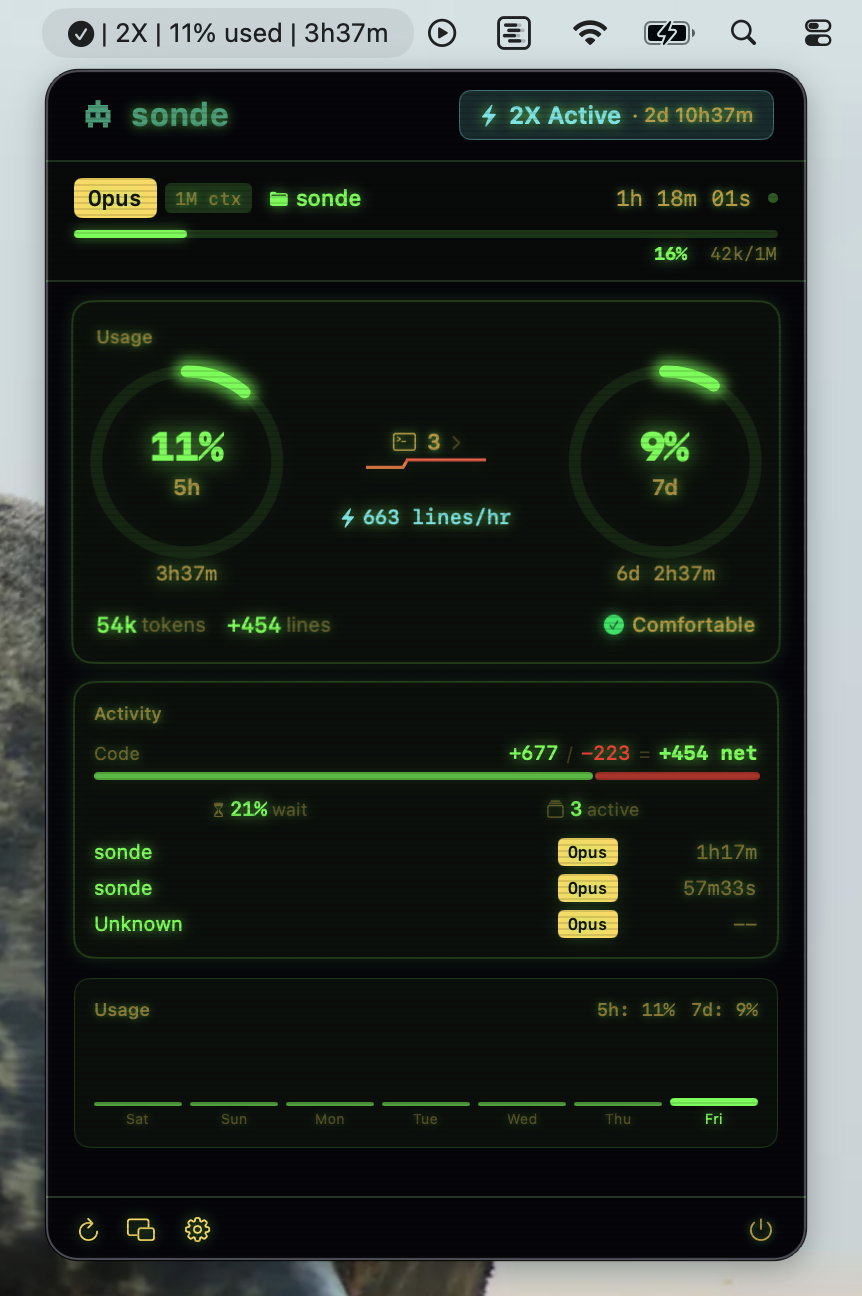
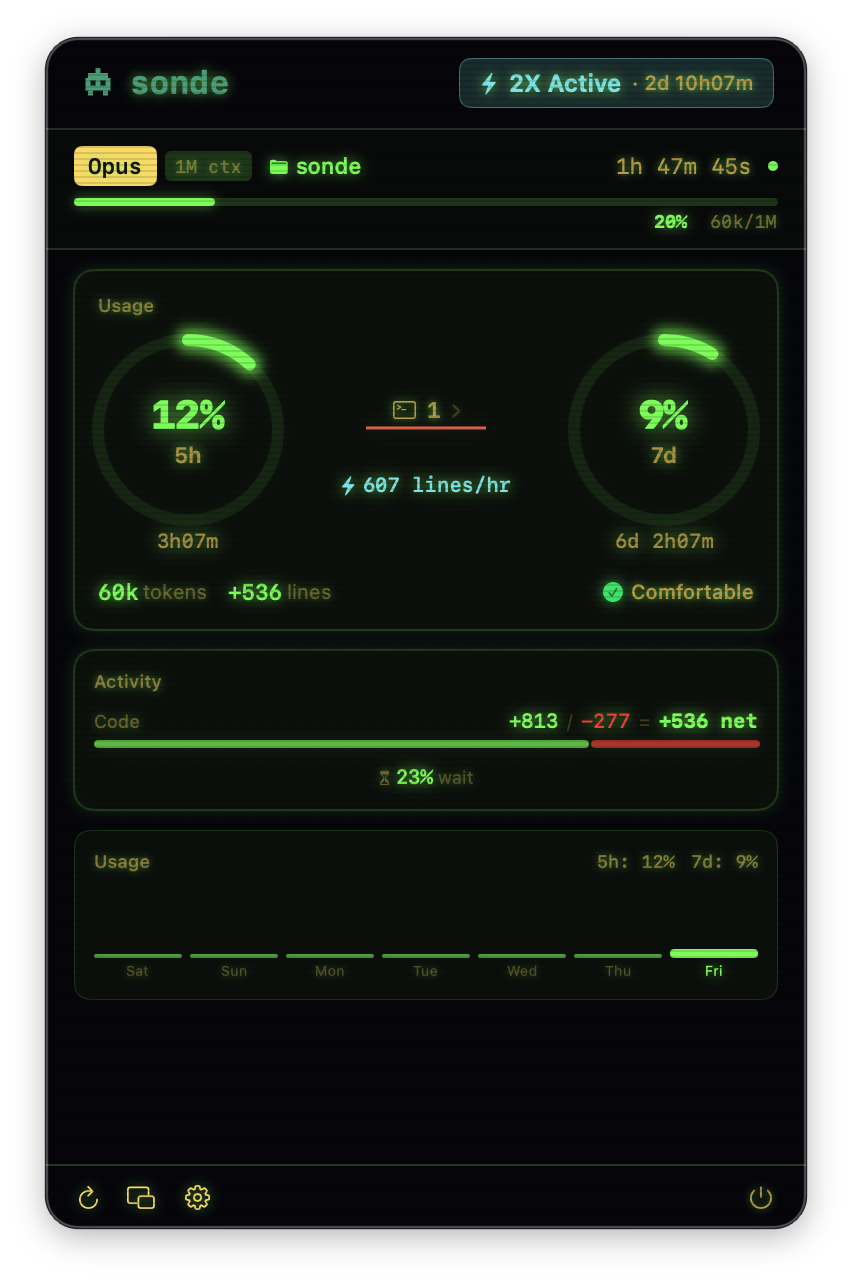
fix: Liquid Glass readability + updated screenshots + remove defaults clearing
- Liquid Glass: dark frosted cards (35% opacity), white text, visible borders
- Settings: Liquid Glass now treated as dark theme for proper contrast
- Remove defaults clearing on update — was breaking popover on every reinstall
- Auto-detect Nerd Font per terminal (Apple Terminal font check)
- Replace all 22 screenshots with consistent window captures

diff --git a/SondeApp/Sources/SondeApp/PopoverView.swift b/SondeApp/Sources/SondeApp/PopoverView.swift
@@ -64,7 +64,7 @@ enum PopoverTheme: String, CaseIterable {
 
     var cardBackground: Color {
         switch self {
-        case .liquidGlass: Color.primary.opacity(0.04)
+        case .liquidGlass: Color(white: 0.15).opacity(0.35)
         case .terminal: Color(red: 0.04, green: 0.06, blue: 0.04)
         case .cyberpunk: hex(0x141726)
         case .synthwave: hex(0x2D1B4E)
@@ -88,7 +88,7 @@ enum PopoverTheme: String, CaseIterable {
 
     var textPrimary: Color {
         switch self {
-        case .liquidGlass: .primary
+        case .liquidGlass: Color.white
         case .terminal: Self.phosphor
         case .cyberpunk: hex(0xE0E0E0)
         case .synthwave: hex(0xF0E6FF)
@@ -100,7 +100,7 @@ enum PopoverTheme: String, CaseIterable {
 
     var textSecondary: Color {
         switch self {
-        case .liquidGlass: .secondary
+        case .liquidGlass: Color(white: 0.7)
         case .terminal: Self.amberDim
         case .cyberpunk: hex(0x8FA4B8)
         case .synthwave: hex(0xC4A0E8)
@@ -130,7 +130,7 @@ enum PopoverTheme: String, CaseIterable {
 
     var borderColor: Color {
         switch self {
-        case .liquidGlass: Color.primary.opacity(0.06)
+        case .liquidGlass: Color.white.opacity(0.15)
         case .terminal: Self.phosphorDim.opacity(0.3)
         case .cyberpunk: hex(0x18E0FF).opacity(0.2)
         case .synthwave: hex(0xFF2975).opacity(0.2)
@@ -154,7 +154,7 @@ enum PopoverTheme: String, CaseIterable {
 
     var dividerColor: Color {
         switch self {
-        case .liquidGlass: Color.primary.opacity(0.1)
+        case .liquidGlass: Color.white.opacity(0.15)
         case .terminal: Self.phosphor.opacity(0.12)
         case .system: isDark ? Color.white.opacity(0.08) : hex(0xC6C6C8).opacity(0.6)
         case .sonde: isDark ? hex(0x45475A).opacity(0.3) : hex(0xBCC0CC).opacity(0.4)
@@ -164,7 +164,7 @@ enum PopoverTheme: String, CaseIterable {
 
     var footerText: Color {
         switch self {
-        case .liquidGlass: .secondary
+        case .liquidGlass: Color(white: 0.6)
         case .terminal: Self.phosphorFaint
         case .system: isDark ? hex(0x98989D) : hex(0x3C3C43).opacity(0.6)
         case .sonde: isDark ? hex(0x6C7086) : hex(0x8C8FA1)
@@ -302,7 +302,7 @@ private struct CardEdgeModifier: ViewModifier {
         case .system, .sonde:
             content.shadow(color: Color.black.opacity(0.15), radius: 8, y: 3)
         case .liquidGlass:
-            content.overlay(RoundedRectangle(cornerRadius: 10).stroke(Color.primary.opacity(0.08), lineWidth: 0.5))
+            content.overlay(RoundedRectangle(cornerRadius: 10).stroke(Color.white.opacity(0.2), lineWidth: 0.5))
         default:
             content
                 .overlay(RoundedRectangle(cornerRadius: 10).stroke(theme.borderColor, lineWidth: 1))

diff --git a/SondeApp/Sources/SondeApp/SettingsView.swift b/SondeApp/Sources/SondeApp/SettingsView.swift
@@ -213,13 +213,13 @@ struct SettingsTab: View {
     /// Whether the current theme has a dark card background.
     /// Liquid Glass is translucent — needs dark text despite isDark=true.
     private var isDarkTheme: Bool {
-        if theme == .liquidGlass { return false }
+        if theme == .liquidGlass { return true }
         return theme.isDark
     }
 
     /// Text color for row labels.
     private var rowTextColor: Color {
-        if theme == .liquidGlass { return Color(white: 0.15) }
+        if theme == .liquidGlass { return Color(white: 0.9) }
         return isDarkTheme ? Color(white: 0.95) : Color(white: 0.08)
     }
 
@@ -503,7 +503,7 @@ struct FontInstallRow: View {
     @State private var isInstalling = false
 
     private var rowTextColor: Color {
-        if theme == .liquidGlass { return Color(white: 0.15) }
+        if theme == .liquidGlass { return Color(white: 0.9) }
         return isDark ? Color(white: 0.95) : Color(white: 0.08)
     }
 

diff --git a/SondeApp/Sources/SondeApp/SondeApp.swift b/SondeApp/Sources/SondeApp/SondeApp.swift
@@ -12,11 +12,6 @@ struct SondeMenuBarApp: App {
         NotificationManager.shared.toastHandler = { message, icon in
             ToastManager.shared.show(message: message, icon: icon)
         }
-        // Defer defaults clearing until AFTER SwiftUI has finished setting up
-        // the MenuBarExtra window. Clearing during init() kills window state.
-        DispatchQueue.main.asyncAfter(deadline: .now() + 2.0) {
-            Self.clearStaleDefaultsIfNeeded()
-        }
     }
 
     /// Kill any other running Sonde instances to prevent duplicate menu bar items.
